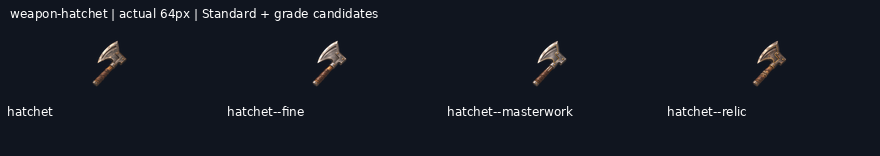
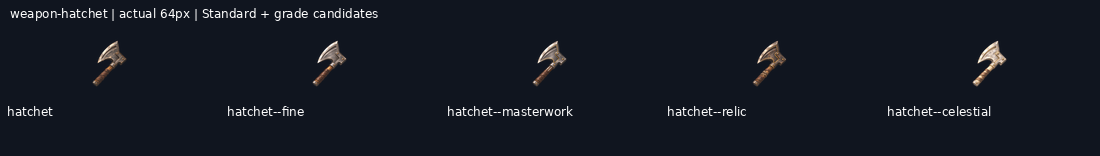
art: draw weapon-hatchet--celestial grade candidate

diff --git a/art/_archive/gear/2026-11-19-kept-blade-grades/HANDOFF.md b/art/_archive/gear/2026-11-19-kept-blade-grades/HANDOFF.md
@@ -1,9 +1,9 @@
 # Kept-blade grade candidates
 
-**12/32 grade candidates delivered** on `art/2026-11-19-kept-blade-grades`. Shared mailbox: https://github.com/leonpentastorm/Project-Heaven-Cry/issues/3 . See claim.json for this lane’s current Standards. Released overlapping blades reuse12 peer candidates, with3 local alternatives archived.
+**13/32 grade candidates delivered** on `art/2026-11-19-kept-blade-grades`. Shared mailbox: https://github.com/leonpentastorm/Project-Heaven-Cry/issues/3 . See claim.json for this lane’s current Standards. Released overlapping blades reuse12 peer candidates, with3 local alternatives archived.
 
 Leon requested continuous candidate production; proof approval is not fabricated. All candidates remain review-candidate, production_approved:false, implementation_ready:false, with outline.review_required:true. Exact outline is measured, never asserted unless the masks match. Per-image registration is uniform scaling/translation only, without warp, silhouette masks, filled pixels or code-drawn substitutes. The generated native remains untouched.
 
 Each image is generated, shown, technically exported, validated, committed and pushed before the next. Sources, versioned masters, exact prompts/reference hashes,256/128/64/32 exports and grade comparison sheets are retained. Standards and earlier deliveries are unchanged. This sparse checkout cannot validate omitted historical files; full-library validation/build is an integration check on a full checkout.
 
-Remaining: weapon-ork_machete--masterwork, weapon-ork_machete--relic, weapon-ork_machete--celestial, weapon-hatchet--celestial, weapon-war_axe--fine, weapon-war_axe--masterwork, weapon-war_axe--relic, weapon-war_axe--celestial, weapon-glaive--fine, weapon-glaive--masterwork, weapon-glaive--relic, weapon-glaive--celestial, weapon-lance--fine, weapon-lance--masterwork, weapon-lance--relic, weapon-lance--celestial, weapon-maul--fine, weapon-maul--masterwork, weapon-maul--relic, weapon-maul--celestial.
+Remaining: weapon-ork_machete--masterwork, weapon-ork_machete--relic, weapon-ork_machete--celestial, weapon-war_axe--fine, weapon-war_axe--masterwork, weapon-war_axe--relic, weapon-war_axe--celestial, weapon-glaive--fine, weapon-glaive--masterwork, weapon-glaive--relic, weapon-glaive--celestial, weapon-lance--fine, weapon-lance--masterwork, weapon-lance--relic, weapon-lance--celestial, weapon-maul--fine, weapon-maul--masterwork, weapon-maul--relic, weapon-maul--celestial.
